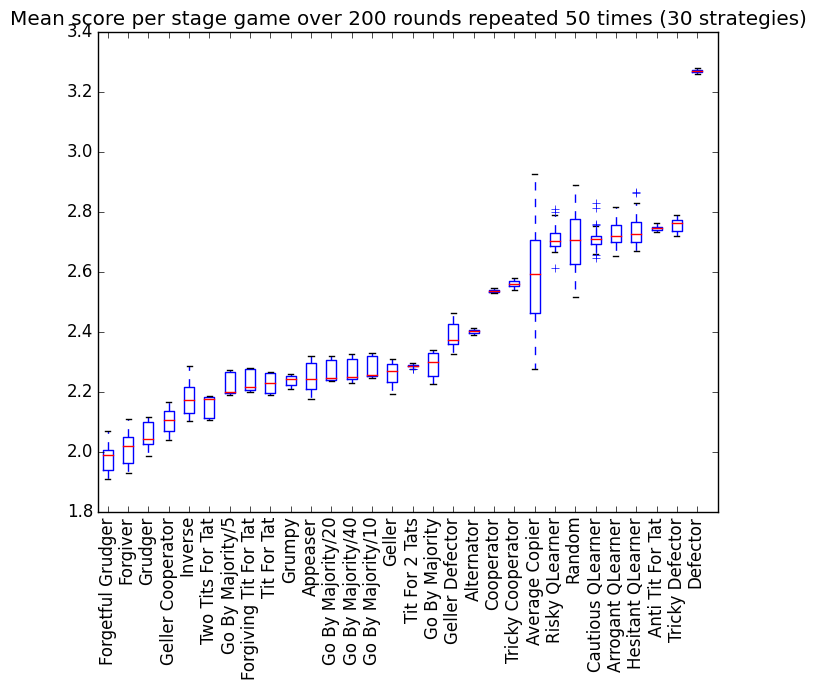
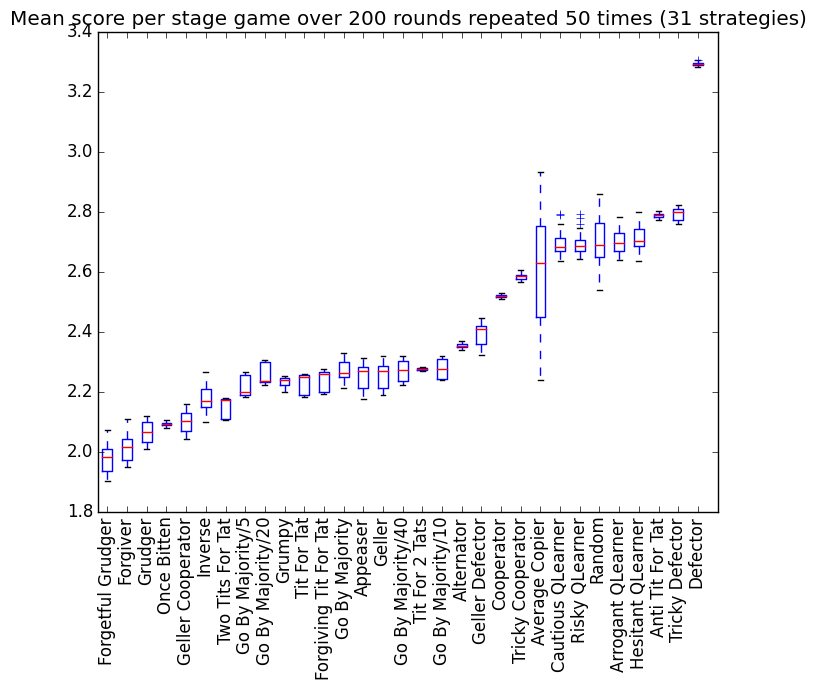
Adding tests and rerunning results

diff --git a/axelrod/tests/test_oncebitten.py b/axelrod/tests/test_oncebitten.py
@@ -20,14 +20,39 @@ class TestOnceBitten(unittest.TestCase):
         """
         P1 = axelrod.OnceBitten()
         P2 = axelrod.Player()
-        P1.history = ['C', 'D', 'D', 'D']
-        P2.history = ['C', 'C', 'C', 'C']
+        # Starts by playing C
         self.assertEqual(P1.strategy(P2), 'C')
-        P1.history = ['C', 'C', 'D', 'D', 'D']
-        P2.history = ['C', 'D', 'C', 'D', 'C']
+        self.assertEqual(P1.grudged, False)
+        P2.history.append('C')
+
         self.assertEqual(P1.strategy(P2), 'C')
-        P2.history = ['C', 'D', 'C', 'D', 'D']
+        self.assertEqual(P1.grudged, False)
+        P2.history.append('C')
+
+        self.assertEqual(P1.strategy(P2), 'C')
+        self.assertEqual(P1.grudged, False)
+        P2.history.append('D')
+
+        self.assertEqual(P1.strategy(P2), 'C')
+        self.assertEqual(P1.grudged, False)
+        P2.history.append('D')
+
+        self.assertEqual(P2.history, ['C', 'C', 'D', 'D'])
         self.assertEqual(P1.strategy(P2), 'D')
+        self.assertEqual(P1.grudged, True)
+
+        for turn in range(P1.mem_length-1):
+            self.assertEqual(P1.strategy(P2), 'D')
+            # Doesn't matter what opponent plays now
+            P2.history.append('C')
+            self.assertEqual(P1.grudged, True)
+            P2.history.append('D')
+            self.assertEqual(P1.grudged, True)
+
+        self.assertEqual(P1.strategy(P2), 'D')
+        self.assertEqual(P1.grudge_memory, 10)
+        self.assertEqual(P1.grudged, True)
+        P2.history.append('C')
 
     def test_representation(self):
         P1 = axelrod.OnceBitten()

diff --git a/axelrod/strategies/__init__.py b/axelrod/strategies/__init__.py
@@ -14,6 +14,7 @@ from inverse import *
 from appeaser import *
 from forgiver import *
 from forgetfulgrudger import *
+from oncebitten import *
 
 strategies = [
         Defector,
@@ -42,7 +43,8 @@ strategies = [
         ArrogantQLearner,
         HesitantQLearner,
         CautiousQLearner,
-        ForgetfulGrudger
+        ForgetfulGrudger,
+        OnceBitten,
         ]
 
 #These are strategies that do not follow the rules of Axelrods tournement.

diff --git a/axelrod/strategies/oncebitten.py b/axelrod/strategies/oncebitten.py
@@ -26,6 +26,9 @@ class OnceBitten(Player):
             self.grudge_memory = 0
             self.grudged = False
 
+        if len(opponent.history) < 2:
+            return 'C'
+
         if self.grudged:
             self.grudge_memory += 1
             return 'D'
